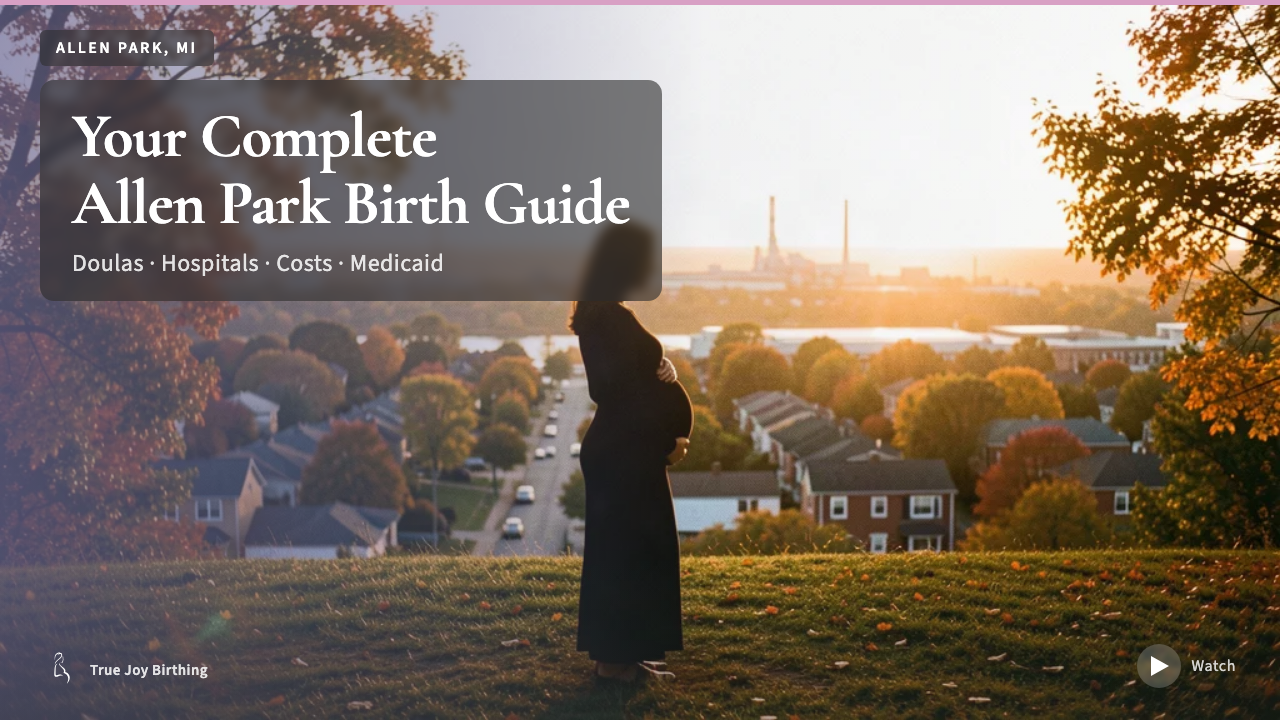
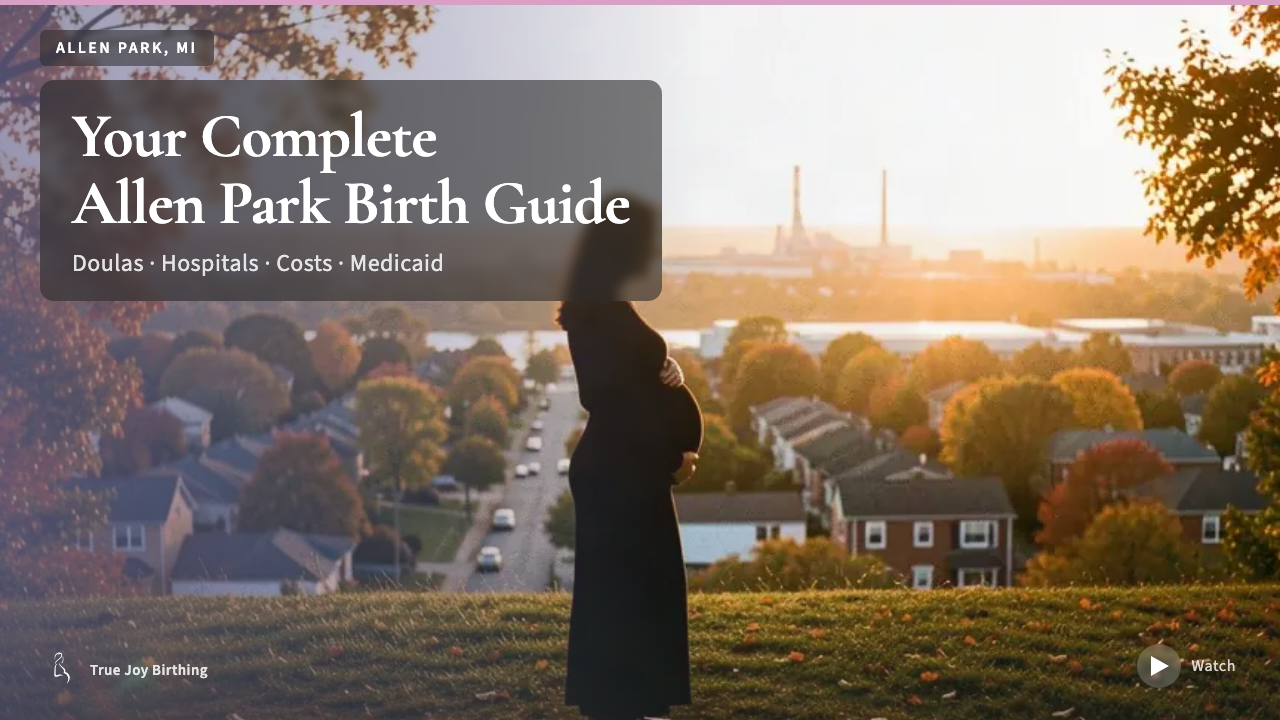
deploy: 2026-08-04 18:04 — deploy: 2026-08-04 17:49 — deploy: 2026-08-04 17:27 — deploy: 2026-08-04 17:25 — deploy: 2026-08-04 17:20 — deploy: 2026-08-04 17:01 — fix: correct false outreach flags on 5 unbuilt cities (colorado-springs-co, fort-worth-tx, glendale-az, san-antonio-tx, tampa-fl) — no out

diff --git a/src/data/video-embeds.ts b/src/data/video-embeds.ts
@@ -1197,7 +1197,7 @@ export const cityVideoEmbeds: Record<string, CityVideoEmbed> = {
     description: "Complete birth support guide for Leesburg, Florida. Meet local doulas and midwives, compare hospital policies, and learn about doula costs and Medicaid coverage in Lake County.",
   },
   "allen-park-mi": {
-    videoId: "VYWx2jPDMnM",
+    videoId: "zlhdgZPaHSs",
     title: "Allen Park Doula & Birth Plan Guide: Costs, Hospitals & Medicaid (First-Time Mom)",
     duration: "PT5M6S",
     uploadDate: "2026-08-04",
